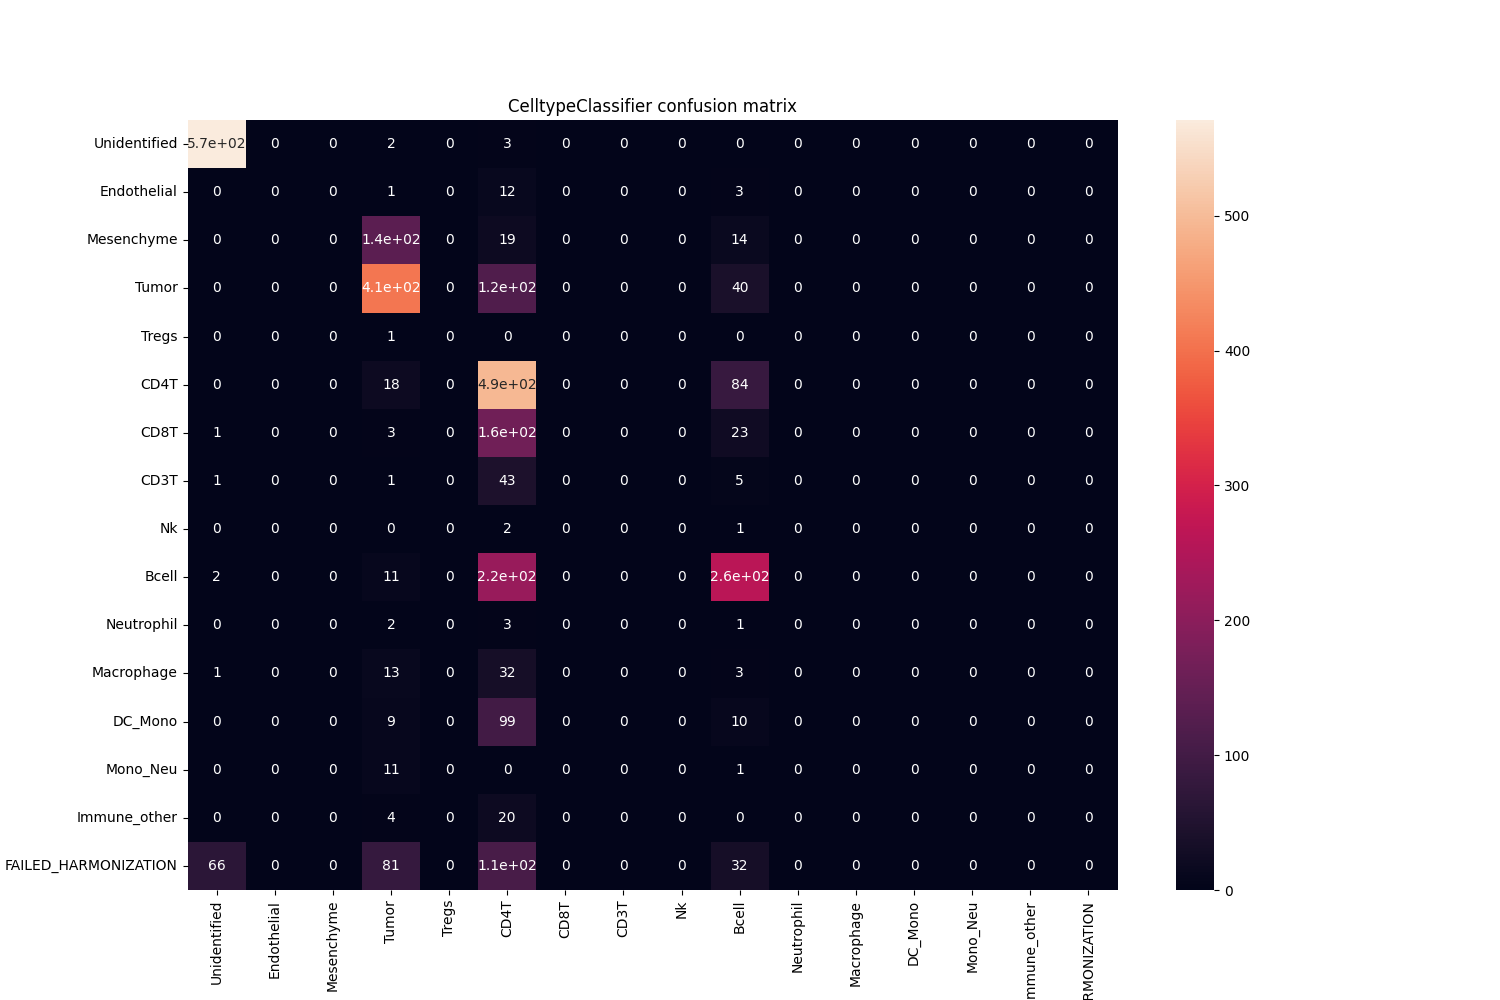
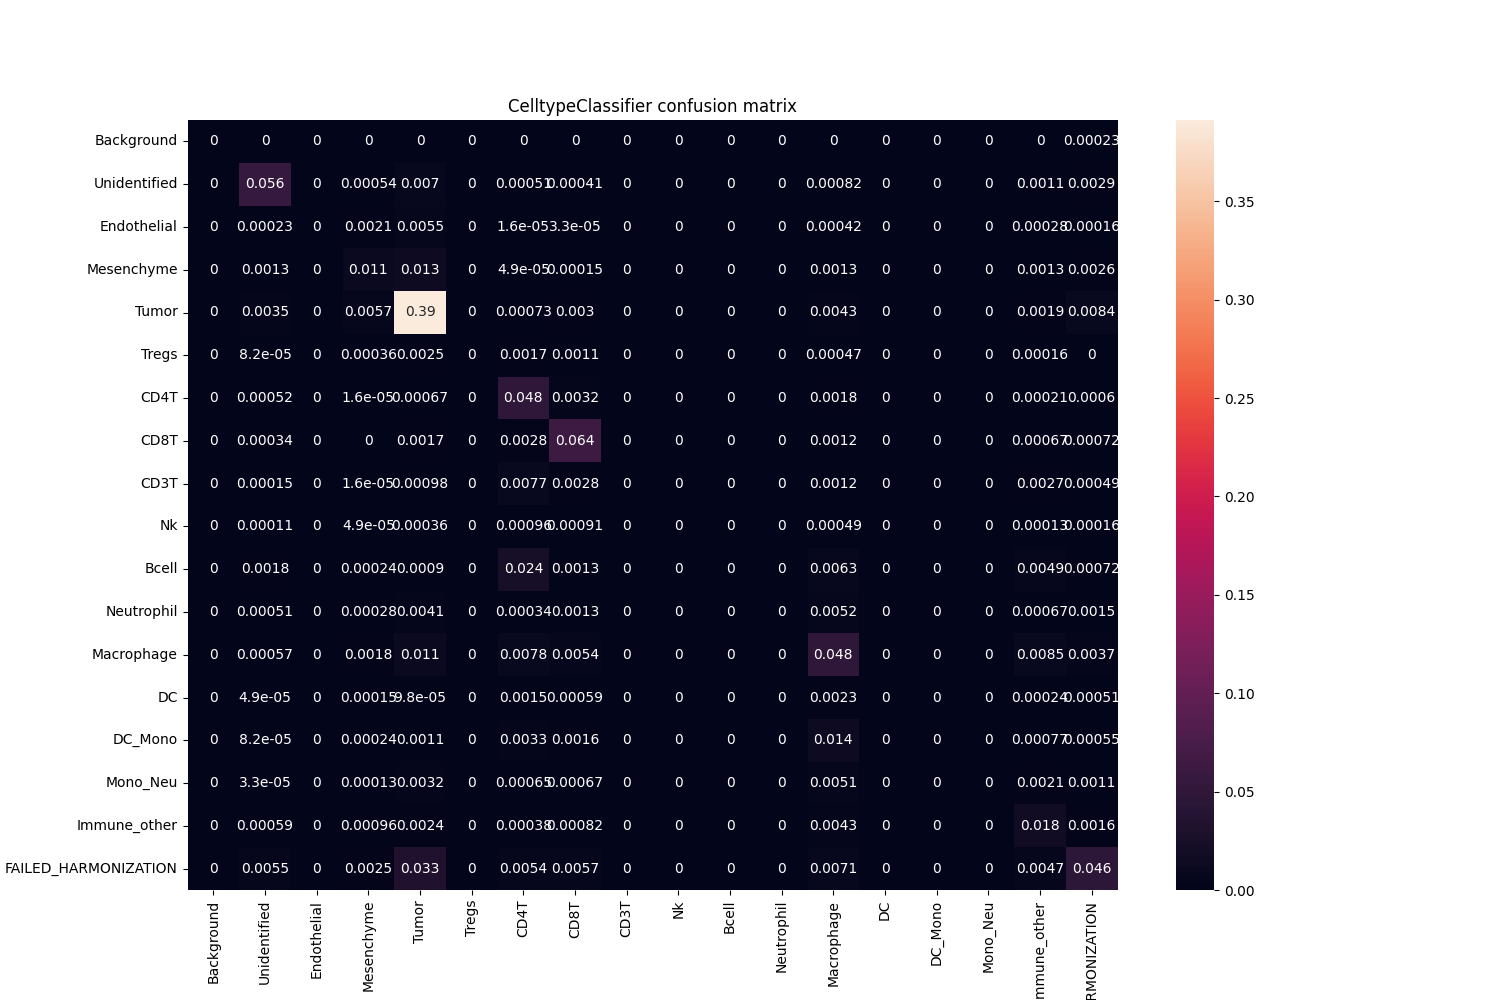
done??

diff --git a/assignment_01/assignment_01.py b/assignment_01/assignment_01.py
@@ -41,51 +41,101 @@ def load_metadata():
     return cell_type_to_label, channels
 
 
-def get_average_data():
+def main(X, y, cell_types):
     '''
-    Average the expression data for each cell for each marker. Produces a file
-    where each row contains data for each individual cell (across all files),
+    Just what the assignment asks for. 
+    '''
+    
+    # For this function, don't bother accumulating and writing to a file. 
+    data = get_average_data(X, y, cell_types)
+    X, y = reformat(data)
+
+    data = train_test_split(X, y, train_size=0.7, shuffle=True)
+
+    # Load the best model. 
+    model = torch.load('model.pickle')
+    
+    y_pred = model(data[1])
+    # Need to return a mapping of the cell number to cell type. 
+    y_pred = torch.argmax(y_pred, 1)
+    
+    mapping = {}
+    for i in range(len(y_pred)):
+        mapping[i] = y_pred[i]
+
+    return mapping
+
+
+def generate_data_file(filename='data.csv'):
+    '''
+    Produces a file where each row contains data for each individual cell (across all files),
     and each column indicates the average expression for a particular marker (so
     there are ncells rows and 51 columns)
     '''
-    # Need to make a training dataset with expression information for each cell. 
-    training_data = {'cell_number':[], 'marker':[], 'expression':[], 'cell_type':[]}
-
+    dfs = []
+    
+    # Make sure all cells have a unique id across images. 
+    cell_number = 0
     for file in tqdm([f for f in files if f != 'meta.yaml'], desc='Loading files...'):
         npz = np.load(data_dir + file, allow_pickle=True)
         # Because npz['cell_types'] has shape (), need to use item() to extract the
         # dictionary. 
         X, y, cell_types = npz['X'], npz['y'], npz['cell_types'].item()
-        # Get rid of the weird first dimension.
-        X, y = X[0], y[0]
-        # X array has shape (1, 2048, 2048, 51). Last index is channels (i.e. markers)
-        # y array has shape (1, 2048, 2048, 2) 
-        # cell_types array is a dictionary mapping the mask indices to the cell types.
         
-        # First, normalize the data... Rohit said to normalize across each
-        # marker in each file.
-        # Some of the channels have no expression... maybe just handle by
-        # subbing out 1, and keeping things the same?
-        normalizer = np.amax(X, axis=(0, 1), keepdims=True)
-        # Some of the channels have no expression, so ensure no NaNs. 
-        normalizer[normalizer == 0] = 1
-        X = X/normalizer
-
-        # Probably should use the whole-cell segments, not nuclear...
-        y = y[:, :, 0]
-       
-        cell_num_min, cell_num_max = np.min(y), np.max(y)
-        for i in range(cell_num_min, cell_num_max + 1):
-            # Take the mean expression across each channel.
-            cell_data = np.mean(X[y == i, :], axis=0)
-            
-            training_data['expression'] += list(cell_data)
-            training_data['marker'] += [n for n in range(51)]
-            training_data['cell_type'] += [cell_types[i]] * 51
+        df = get_average_data(X, y, cell_types, cell_number_start=cell_number)
+        
+        # Increase cell number. 
+        cell_number += np.max(y)
+        print(cell_number)
+        
+        dfs.append(df)
 
     # Write all the cleaned-up data to a CSV file to avoid re-generating. 
-    training_data = pd.DataFrame(training_data)
+    training_data = pd.concat(dfs, ignore_index=True)
     training_data.to_csv('data.csv')
+
+
+def get_average_data(X, y, cell_types, cell_number_start=0):
+    '''
+    Specify cell_number_start to ensure all cells are uniquely numbered (not
+    sure if the data does this already?). Update: It does not. 
+    '''
+    # Need to make a training dataset with expression information for each cell. 
+    training_data = {'cell_number':[], 'marker':[], 'expression':[], 'cell_type':[]}
+
+    # Get rid of the weird first dimension.
+    X, y = X[0], y[0]
+    # X array has shape (1, 2048, 2048, 51). Last index is channels (i.e. markers)
+    # y array has shape (1, 2048, 2048, 2) 
+    # cell_types array is a dictionary mapping the mask indices to the cell types.
+    
+    # First, normalize the data... Rohit said to normalize across each
+    # marker in each file.
+    # Some of the channels have no expression... maybe just handle by
+    # subbing out 1, and keeping things the same?
+    normalizer = np.amax(X, axis=(0, 1), keepdims=True)
+    # Some of the channels have no expression, so ensure no NaNs. 
+    normalizer[normalizer == 0] = 1
+    X = X/normalizer
+
+    # Probably should use the whole-cell segments, not nuclear...
+    y = y[:, :, 0]
+    
+    # Keep track of unique index. 
+    cell_number = cell_number_start
+
+    for i in range(np.max(y)):
+        # Take the mean expression across each channel.
+        cell_data = np.mean(X[y == i, :], axis=0)
+        
+        training_data['cell_number'] += [cell_number] * 51
+        training_data['expression'] += list(cell_data)
+        training_data['marker'] += [n for n in range(51)]
+        training_data['cell_type'] += [cell_types[i]] * 51
+
+        cell_number += 1
+    
+    return pd.DataFrame(training_data)
 
 
 def filter_channels(nchannels):
@@ -97,11 +147,11 @@ def filter_channels(nchannels):
     # cell_type_to_label, channels = load_metadata()
     
     data = pd.read_csv('./data.csv')
+    print(data.shape)
     data = data.groupby(['cell_type', 'marker'], as_index=False)['expression'].mean()
     data = data.pivot(index='cell_type', columns='marker', values='expression')
     # I think we throw away the first channel? It seems like it might be some
 
-    fig, ax = plt.subplots(figsize=(20, 10))
     
     # For the purposes of selecting which markers should be kept, find the
     # columns with the highest variance. 
@@ -122,14 +172,22 @@ def create_confusion_matrix(y_pred, y_test):
     cell_type_to_label, _ = load_metadata()
     fig, ax = plt.subplots(1, figsize=(15, 10))
     ax.set_title('CelltypeClassifier confusion matrix')
-   
+    ax.set_ylabel('true') 
+    ax.set_xlabel('predicted') 
     y_pred = torch.argmax(y_pred, 1) # I think we need to actually make predictions. 
     matrix = confusion_matrix(y_test.detach().numpy(), y_pred.detach().numpy())
     
     # It seems as though some cell types might not be included?
     cell_types = np.sort(np.unique(y_test.detach().numpy()))
 
+    # Which cell types are not represented?
+    missing = [cell_type_to_label[t] for t in range(18) if t not in cell_types]
+    print('The following cell types are not represented in the prediction:', missing)
     # Not totally sure if these are properly labeled. 
+    
+    # Normalize the matrix so each thingy is a probability. 
+    matrix = matrix / np.sum(matrix)
+
     labels = [cell_type_to_label[t] for t in cell_types]
     sns.heatmap(matrix, ax=ax, annot=True, yticklabels=labels, xticklabels=labels)
 
@@ -166,6 +224,8 @@ def create_marker_expression_panel(nchannels=25):
     '''
     Create and save the marker expression panel for the first deliverable. 
     '''
+    fig, ax = plt.subplots(figsize=(20, 10))
+    
     _, data = filter_channels(nchannels)
     cell_type_to_label, channels = load_metadata()
 
@@ -271,11 +331,11 @@ def train(model, data, batch_size=64, epochs=200):
     return train_loss_hist, test_loss_hist, train_acc_hist, test_acc_hist
 
 
-def load_data(path='./data.csv', nchannels=25):
+def reformat(data, nchannels=25):
     '''
-    Load in the average data from a CSV file. 
+    Process the loaded data by filtering out some of the channels, reorienting
+    the DataFrame, and converting to tensors. 
     '''
-    data = pd.read_csv(path, index_col=0)
     # Filter for the channels we care about
     channels_to_keep, _ = filter_channels(nchannels)
     data = data.loc[data['marker'].isin(channels_to_keep)]
@@ -293,25 +353,32 @@ def load_data(path='./data.csv', nchannels=25):
     return X, y
 
 
+# This part of the script generates the confusion matrix. 
 if __name__ == '__main__':
     
-    X, y = load_data()
-    data = train_test_split(X, y, train_size=0.7, shuffle=True)
-
+    # create_marker_expression_panel(nchannels=25)
+    # generate_data_file()
+    
+    # Read in data written to the CSV file. This data has already gone through
+    # some of the preprocessing. 
+#     data = pd.read_csv('data.csv', index_col=0)
+#     X, y = reformat(data)
+#     data = train_test_split(X, y, train_size=0.7, shuffle=True)
+#  
 #     model = CelltypeClassifier()
+#     
 #     hists = train(model, data)
 #     create_model_trajectory_plots(hists)
-#     # get_average_data()
-
+ 
     # Load the best model. 
     model = torch.load('model.pickle')
     y_pred = model(data[1])
     y_test = data[3].to(torch.long)
     print('Final model test accuracy:', accuracy(y_pred, y_test))
-    
+   
     create_confusion_matrix(y_pred, y_test)
 
-    pass
+
 
 # class LinearClassifier(object):
 #     '''

diff --git a/assignment_01/README.md b/assignment_01/README.md
@@ -1,0 +1,4 @@
+# Assignment 1: Cell Classification
+
+The `main` function in the `assignment_01.py` file accepts an `X` and `y` loaded directly from the `.npz` files, preprocesses the data, and passes it into the model. It returns a mapping of segmentation mask ids (which I refered to as `cell_number` in my code) to celltype codes.
+
